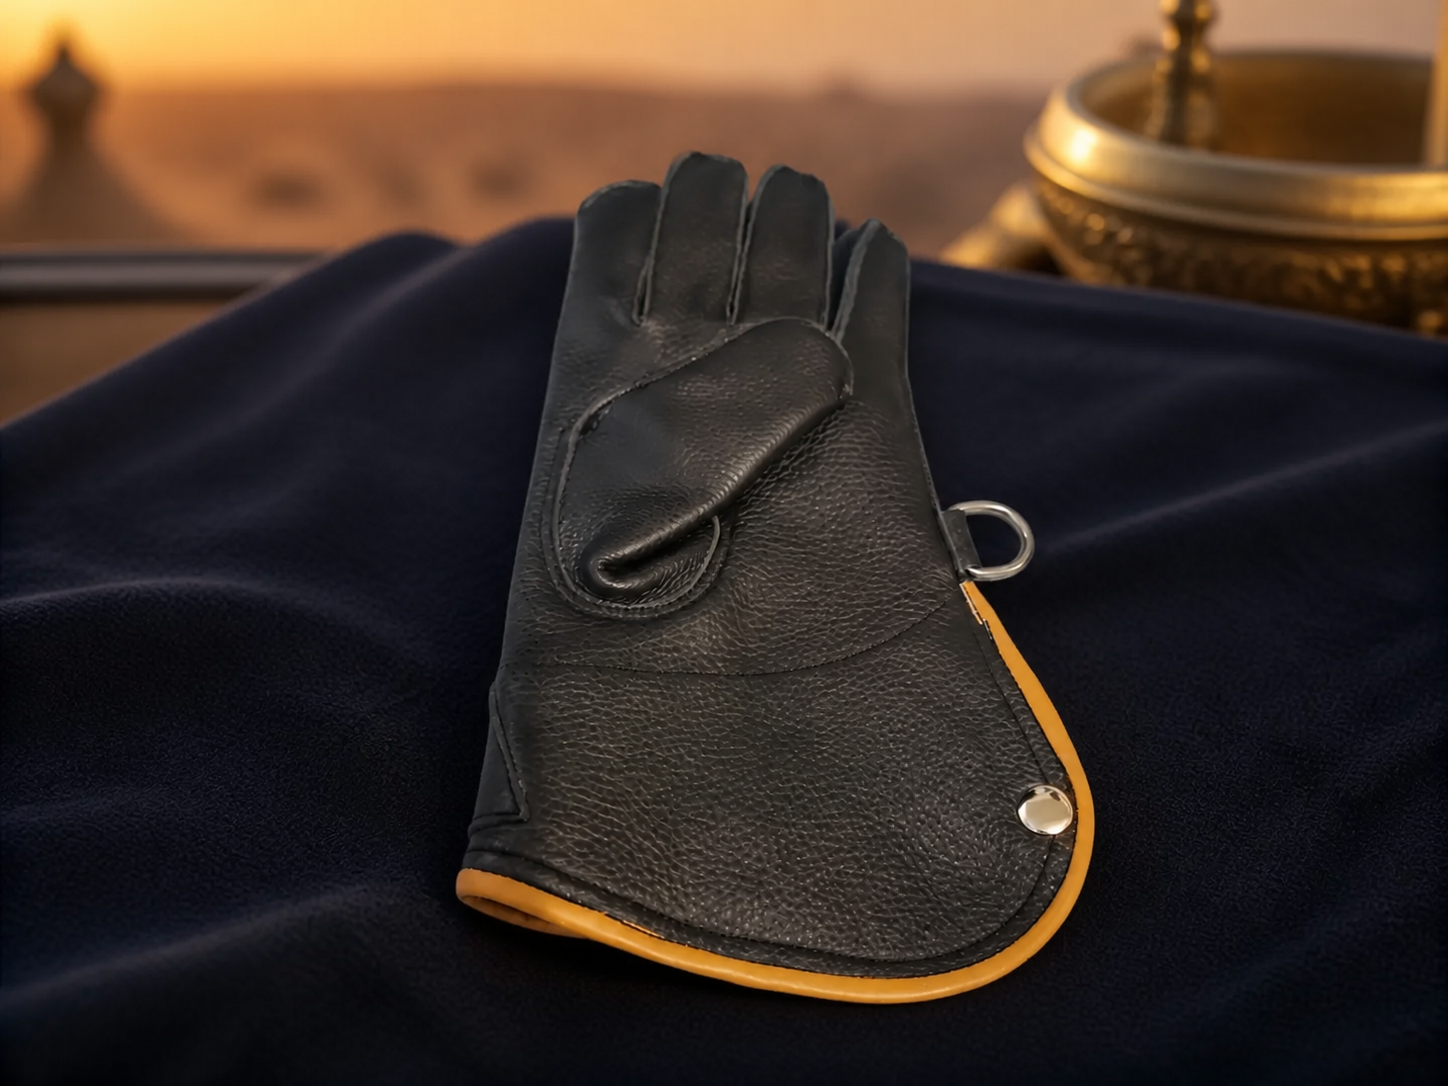
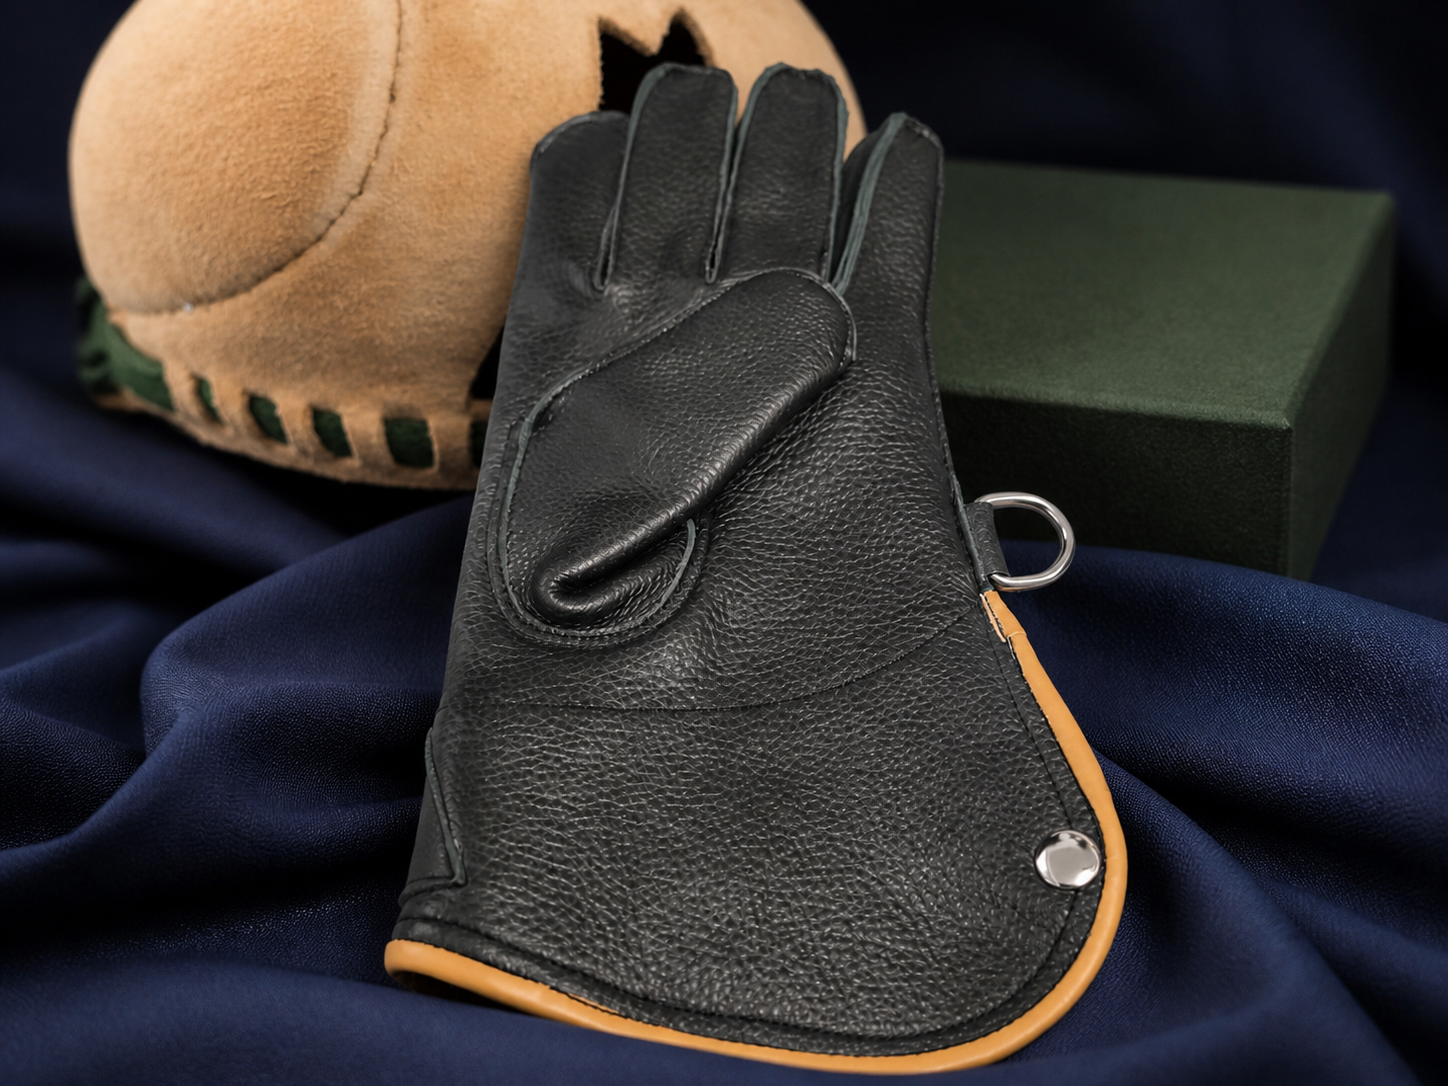
Use original glove product in lifestyle gallery

diff --git a/src/main.jsx b/src/main.jsx
@@ -19,7 +19,7 @@ const products=[
  {slug:'tri-colour-field-gauntlet',name:'Tri-Colour Field Gauntlet',cat:'Gloves',image:'/brand/gloves-tricolor.webp',tag:'Signature build',desc:'Layered leather falconry glove with a distinctive field-ready finish.',details:'Designed for falconers who want protection without losing dexterity. Contrasting panels make the glove easy to identify in a busy mews or field kit.',specs:['Layered leather palm and cuff','Reinforced thumb saddle','D-ring for tether or carry','Available by direct enquiry'],seo:'premium falconry products UAE Qatar Saudi Arabia'},
  {slug:'numbered-field-falconry-glove',name:'Numbered Field Falconry Glove',cat:'Gloves',image:'/brand/gloves-field-series.webp',tag:'Field ready',desc:'Reinforced dark leather glove for confident field handling.',details:'The numbered field series uses a firmer leather hand and deep cuff for birds that need extra protection. Ask us to match the glove to your bird and hand size.',specs:['Reinforced palm and thumb','Deep protective cuff','Field identification detail','Size consultation available'],seo:'best falcon gloves in Qatar, falcon gloves Dubai, falcon gloves Saudi Arabia'},
  {slug:'classic-four-colour-gauntlet',name:'Classic Four-Colour Falconry Gauntlet',cat:'Gloves',image:'/brand/gloves-classic-range.webp',tag:'Natural tones',desc:'Supple leather falconry gauntlet in a practical palette of field colours.',details:'A balanced everyday glove for training, transport and display. The classic cut leaves the fingers articulate while the cuff keeps the wrist protected.',specs:['Soft leather construction','Four natural colour options','Secure cuff closure','Made to order by enquiry'],seo:'best falconry gloves Europe Gulf falconry equipment'},
- {slug:'black-full-cuff-falconry-glove',name:'Black Reinforced Short-Cuff Falconry Glove',cat:'Gloves',image:'/brand/glove-black-full-cuff-hero.png',tag:'Black short-cuff field glove',desc:'A structured black leather short-cuff falconry glove with a padded thumb saddle, textured palm and practical D-ring for confident daily handling.',details:'Designed for falconers who want reliable hand protection without the length of a long gauntlet, this black short-cuff glove covers the hand and wrist while keeping the forearm free for quick equipment work. The shaped thumb saddle helps distribute pressure where the bird grips, the textured leather supports a controlled hold, and the D-ring keeps the glove easy to carry between the mews, vehicle and field. Share your hand measurement and bird profile with us so we can confirm the most suitable fit before payment.',specs:['Textured black leather palm','Padded thumb saddle for talon contact','Short cuff covering the wrist','Metal D-ring for carry or tether attachment','Low-contrast black finish for professional field kits','Hand size and bird profile confirmed by enquiry'],seo:'black short cuff falconry glove, black reinforced falconry glove Dubai, best falcon gloves UAE, falconry glove Abu Dhabi, leather falcon glove Qatar, short cuff falcon glove Saudi Arabia',gallery:['/brand/black-short-cuff-lifestyle.png','/brand/black-short-cuff-worn.png','/brand/black-short-cuff-palm.png','/brand/black-short-cuff-back.png'],video:'/brand/field-gloves/premium-gloves-gauntlets.mp4'},
+ {slug:'black-full-cuff-falconry-glove',name:'Black Reinforced Short-Cuff Falconry Glove',cat:'Gloves',image:'/brand/black-short-cuff-palm.png',tag:'Black short-cuff field glove',desc:'A structured black leather short-cuff falconry glove with a padded thumb saddle, textured palm and practical D-ring for confident daily handling.',details:'Designed for falconers who want reliable hand protection without the length of a long gauntlet, this black short-cuff glove covers the hand and wrist while keeping the forearm free for quick equipment work. The shaped thumb saddle helps distribute pressure where the bird grips, the textured leather supports a controlled hold, and the D-ring keeps the glove easy to carry between the mews, vehicle and field. Share your hand measurement and bird profile with us so we can confirm the most suitable fit before payment.',specs:['Textured black leather palm','Padded thumb saddle for talon contact','Short cuff covering the wrist','Metal D-ring for carry or tether attachment','Low-contrast black finish for professional field kits','Hand size and bird profile confirmed by enquiry'],seo:'black short cuff falconry glove, black reinforced falconry glove Dubai, best falcon gloves UAE, falconry glove Abu Dhabi, leather falcon glove Qatar, short cuff falcon glove Saudi Arabia',gallery:['/brand/black-short-cuff-lifestyle.png','/brand/black-short-cuff-worn.png','/brand/black-short-cuff-palm.png','/brand/black-short-cuff-back.png'],video:'/brand/field-gloves/premium-gloves-gauntlets.mp4'},
  {slug:'wooden-block-perch-natural',name:'Wooden Block Perch - Natural Finish',cat:'Blocks & Perches',image:'/brand/perch-01.webp',tag:'Block perch',desc:'Stable wooden block perch with a natural finish for mews or display.',details:'A traditional block-perch profile shaped for a falcon foot. We confirm the top diameter, base and finish for the bird and setting before dispatch.',specs:['Turned wood construction','Textured top surface','Stable weighted base','Indoor, mews and display options'],seo:'best falcon blocks, best falcon perch, wooden falcon perch UAE'},
  {slug:'field-ground-spike-perch',name:'Field Ground-Spike Perch',cat:'Blocks & Perches',image:'/brand/perch-02.webp',tag:'Field equipment',desc:'Portable field perch form for training, transport and open-ground work.',details:'Built around a stable stance and easy placement, this field perch is suited to falconers who need a practical perch between flights. Enquire for dimensions and finish.',specs:['Portable field format','Ground-spike or base options','Suitable for training areas','Dimensions confirmed by enquiry'],seo:'best falcon perch Abu Dhabi Qatar Saudi Arabia'},
 {slug:'handcrafted-wood-marble-block-perch',name:'Handcrafted Wood & Marble Block Perch',cat:'Blocks & Perches',image:'/brand/block-perch/block-perch-3.webp',tag:'Indoor / outdoor block',price:125,currency:'AED',desc:'A stable falconry block perch with a turned wood body, marble-weighted base and recessed AstroTurf landing surface.',details:'Designed for the mews, terrace or field kit, this block perch gives a falcon a secure, textured landing surface while the weighted base keeps the stand composed during handling. The rounded profile lets jesses and leashes move cleanly around the top, and the turf surface can be maintained as part of regular equipment care.',specs:['Turned wood perch body','Marble-weighted stability base','Recessed AstroTurf landing surface','Rounded leash-friendly top edge','Indoor, covered outdoor and display use','Dimensions and finish confirmed by enquiry'],seo:'best falcon block perch, wooden falcon perch, marble falcon perch, AstroTurf falconry perch UAE Qatar Saudi Arabia',gallery:['/brand/block-perch/block-perch-1.webp','/brand/block-perch/block-perch-2.webp','/brand/block-perch/block-perch-3.webp'],video:'/brand/block-perch/block-video.mp4'},
